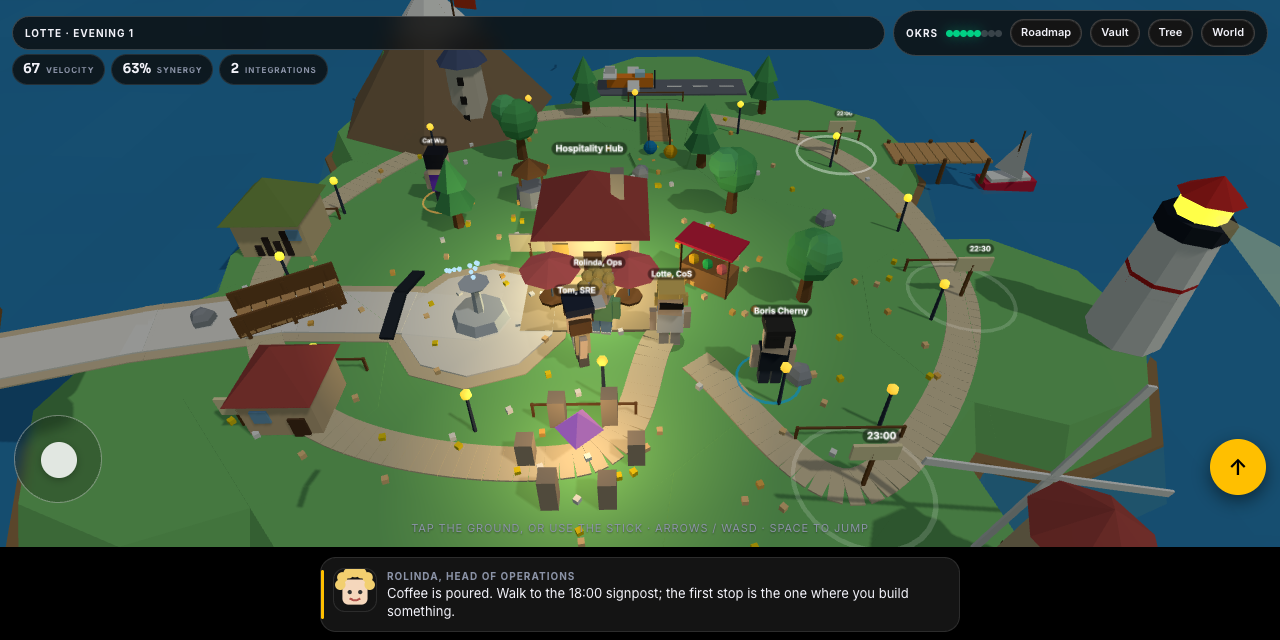
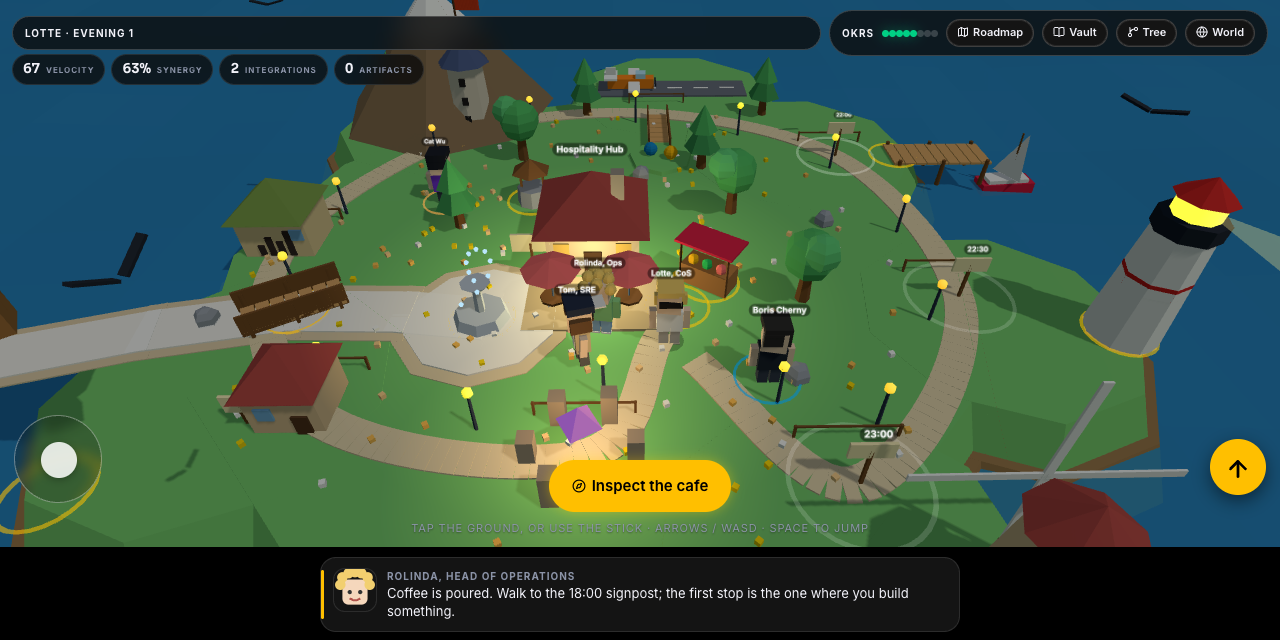
Refresh the media for 0.4.0: the tree by shelf, the artifacts, the onboarding screens, the pet
Claude-Session: https://claude.ai/code/session_01E8GCDw6nLgXC2yRnoVQMVM

diff --git a/README.md b/README.md
@@ -54,6 +54,8 @@ cd ~/camp && vibe status          # the CLI finds the camp from any subfolder
 
 ## Ten things on the island that explain one idea each
 
+![The cafe artifact: order a coffee, get a 200; order five, get a 429](docs/media/artifact-cafe.png)
+
 Walk up to a yellow ring and press **Inspect**. The cafe serves a coffee the way a server answers a client (200, 404, 429, 503, with the latency); the fountain is a cache (miss, hit, stale, invalidate); the well is a database (a scan, an index, a transaction); the lighthouse is DNS; the dock packs, ships and unloads a container; the windmill is cron; the balloon is the cloud with its meter running; the mountain is the stack, six layers from the chip to the agent; the market stall is an API with a menu; the bridge is MCP. Each one prints its demo like a terminal, ends with a question from Rolinda, and links the vault note that goes deeper. Found ones turn green, travel in the progress code, and earn the Collector badge.
 
 ## Make it yours
